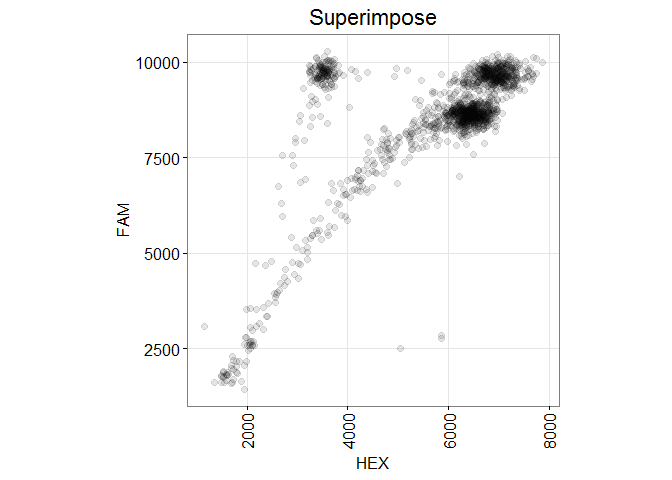
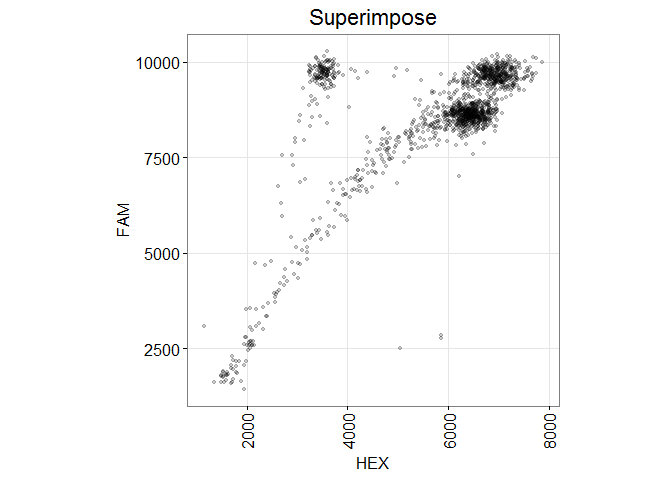
change a few default plot settings

diff --git a/README.md b/README.md
@@ -109,8 +109,8 @@ The main features include:
     real signal of interest is in the non-empty droplets, and empty
     droplets can be regarded as noise.
 -   **Calculating template concentration** - after knowing how many
-    empty droplets are in each well, the template concentration in each
-    well can be calculated.
+    empty droplets are in each well, the template concentration (copies
+    per microlitre) in each well can be calculated.
 -   **Gating droplets** - if your experiment matches some criteria (more
     on that soon), then automatic gating can take place; otherwise, you
     can gate the data with custom thresholds just like on QuantaSoft.
@@ -434,7 +434,7 @@ run through the steps one by one using `next_step()`.
 
     #> Identifying failed wells... DONE (0 seconds)
     #> Identifying outlier droplets... DONE (0 seconds)
-    #> Identifying empty droplets... DONE (1 seconds)
+    #> Identifying empty droplets... DONE (2 seconds)
     #> Analysis complete
 
     # equivalent to `plate %>% next_step(3)`
@@ -747,8 +747,8 @@ Now we can analyze the plate
 
     #> Identifying failed wells... DONE (0 seconds)
     #> Identifying outlier droplets... DONE (0 seconds)
-    #> Identifying empty droplets... DONE (0 seconds)
-    #> Classifying droplets... DONE (0 seconds)
+    #> Identifying empty droplets... DONE (1 seconds)
+    #> Classifying droplets... DONE (1 seconds)
     #> Reclassifying droplets... skipped (not enough wells with significant mutant clusters)
     #> Analysis complete
 
